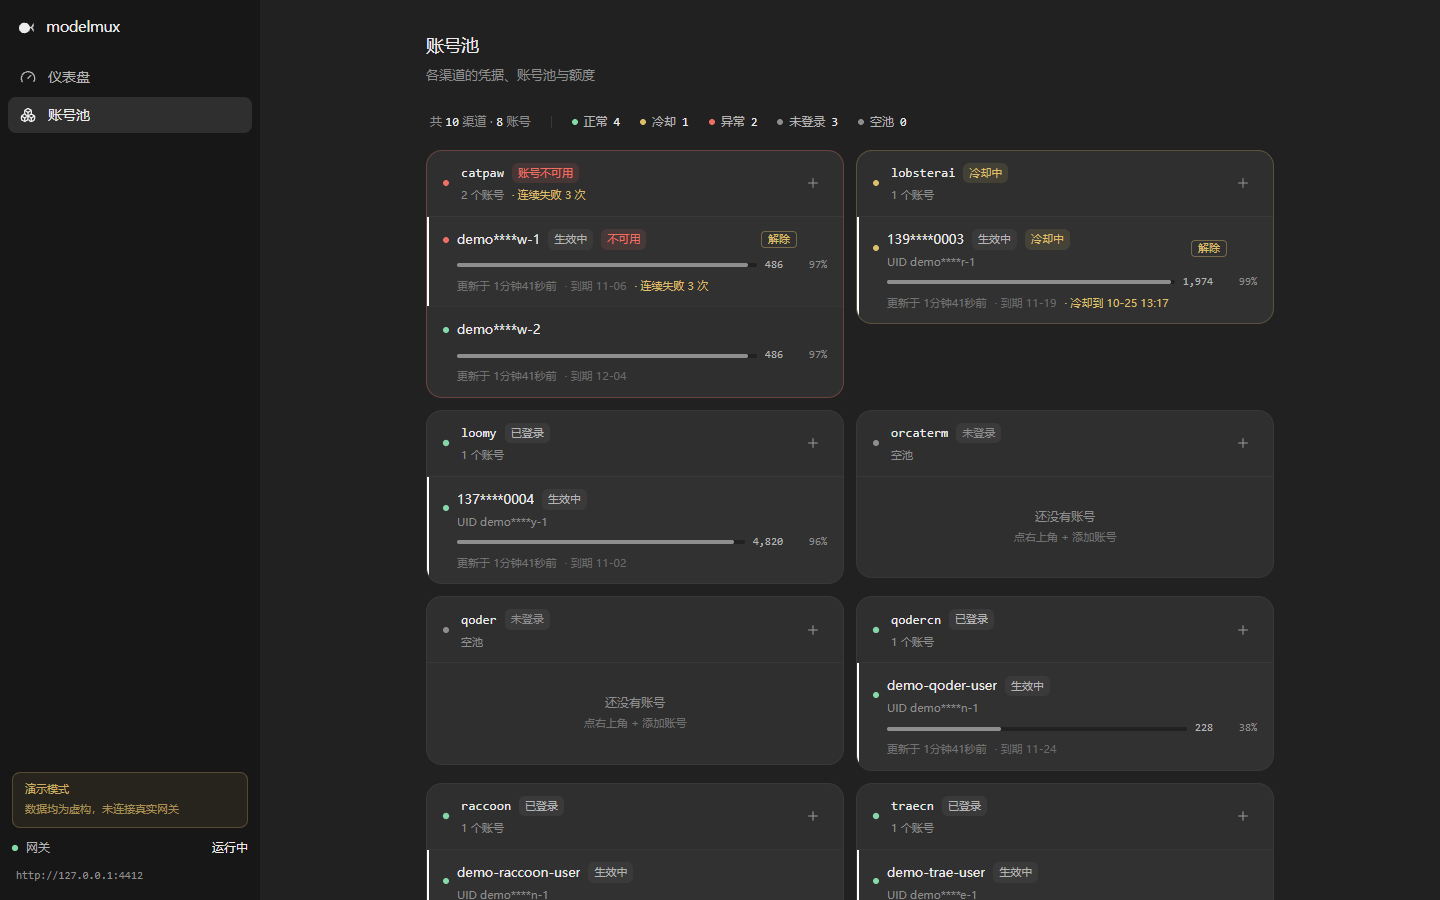
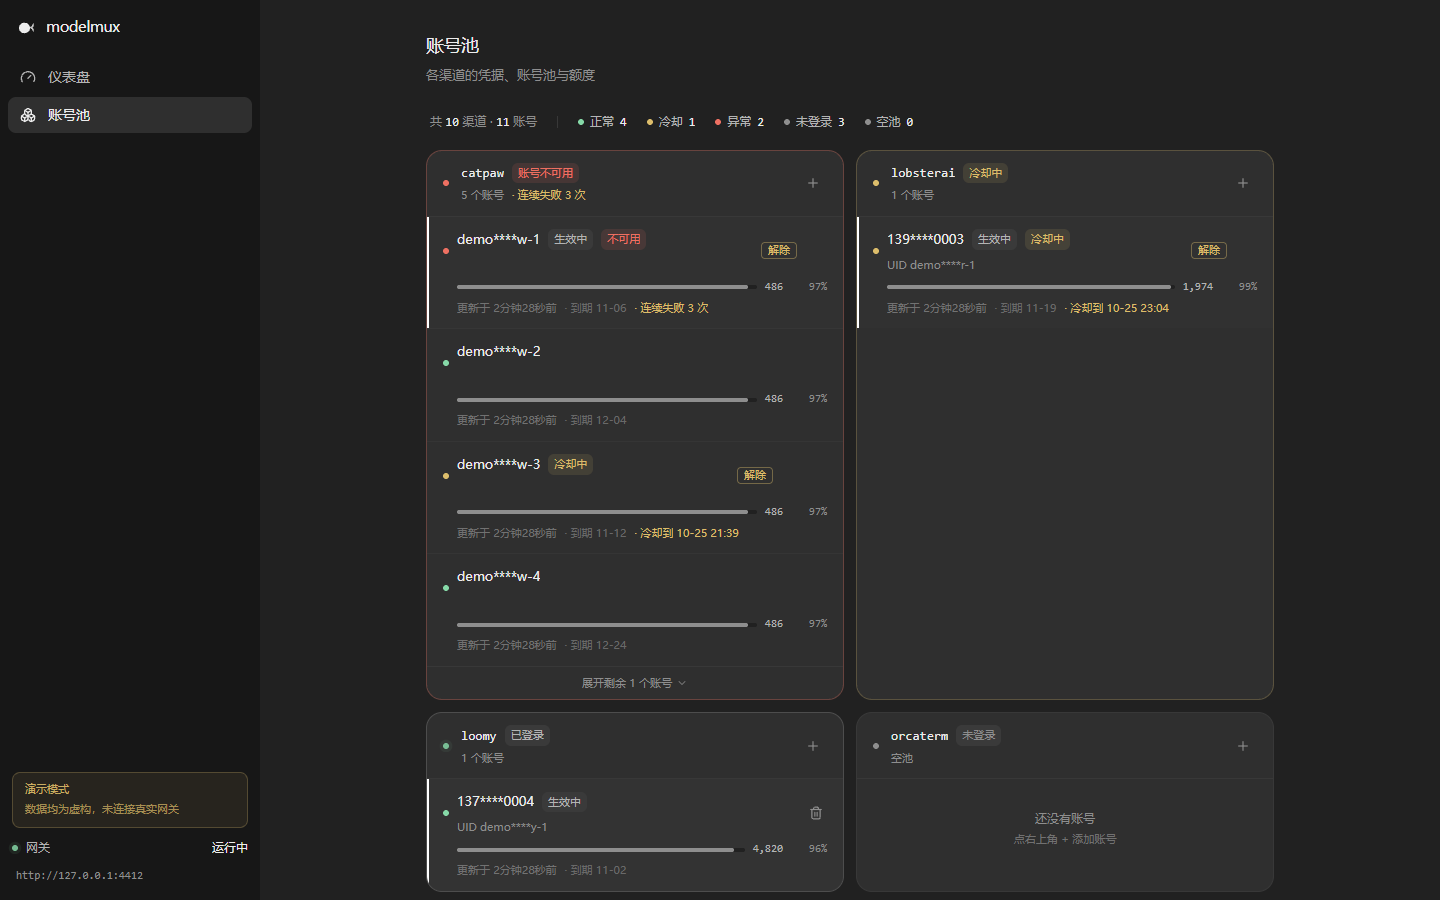
feat(ui): 账号池卡同行等高与恒定行高，多账号折叠上限 4
- 账号行恒定四行架构：名称行 / UID 行恒渲染（无 UID 空占位）/ 额度行 / 时间行 min-h，
  行高不再随「有没有 UID」「状态段多少」漂移
- 网格去 items-start（默认 stretch）：同行两卡严格等高，短卡底部留白
- 折叠上限 4：超出折进卡底「展开剩余 N 个账号 / 收起」（复用模型分组表折叠模式，
  aria-expanded；生效账号恒排首位不会被折掉）
- demo 数据 catpaw 扩到 5 账号（含 cooldown）演示折叠
- docs/WEB-CONSOLE.md 同步布局统一说明；README 账号池截图用 demo 构建重截

diff --git a/packages/ui/src/components/AccountCard.tsx b/packages/ui/src/components/AccountCard.tsx
@@ -10,7 +10,7 @@
  *   新鲜度/到期/失败次数收在最次行。
  */
 
-import { Plus, Trash2, UserCheck } from "lucide-react";
+import { ChevronDown, ChevronUp, Plus, Trash2, UserCheck } from "lucide-react";
 import { useEffect, useState } from "react";
 import type { PoolAccount } from "../lib/types";
 import type { ReactElement } from "react";
@@ -289,6 +289,14 @@ const STATUS_META: Record<ChannelStatus, { text: string; pill: string; dot: stri
 };
 
 /**
+ * 卡内默认露出的账号数，其余折进「展开剩余 N 个账号」。
+ *
+ * 卡片高度因此有上界（卡头 + 4 行 + 折叠条），网格不会被账号多的渠道撑爆；
+ * 生效账号恒排首位（见下方 sort），永远不会被折掉。
+ */
+const PREVIEW_ACCOUNTS = 4;
+
+/**
  * 单渠道账号池卡片。
  *
  * 信息层级按「用户一眼要看什么」排：卡头是 cid + 渠道级状态；
@@ -340,6 +348,10 @@ export function AccountCard({
     .map(rowOf)
     .sort((a, b) => Number(b.key === pool.index.active) - Number(a.key === pool.index.active));
   const activeAccount = accounts.find((a) => a.key === pool.index.active);
+  // 折叠态是卡内私有状态：页面不需要知道哪张卡展开了
+  const [expanded, setExpanded] = useState(false);
+  const visibleAccounts = expanded ? accounts : accounts.slice(0, PREVIEW_ACCOUNTS);
+  const hiddenAccounts = accounts.length - visibleAccounts.length;
 
   const status = classifyChannel(pool, present);
   const meta = STATUS_META[status];
@@ -394,7 +406,7 @@ export function AccountCard({
         </div>
       ) : (
         <ul className="border-t border-line">
-          {accounts.map((account) => {
+          {visibleAccounts.map((account) => {
             const active = account.key === pool.index.active;
             const bill = billingByKey.get(account.key);
             const health = healthText(account.health);
@@ -433,14 +445,12 @@ export function AccountCard({
                         <span className={`pill shrink-0 ${healthBadgeClass(account.health)}`}>{health}</span>
                       )}
                     </div>
-                    {/* UID 退到次行：不再和名称挤在同一行互相截断。
-                        名字行固定 22px 行高 + 这里留 6px 上间距：中文名（如「塞西莉亚4412」）
-                        字形下缘低，仅靠 leading 会看成与下一行叠字。 */}
-                    {showUid && (
-                      <div className="mt-1.5 truncate text-[11px] leading-none text-ink-faint">
-                        UID {maskMiddle(account.uid)}
-                      </div>
-                    )}
+                    {/* UID 退到次行：不与名称同行互截；**恒渲染**（无 UID 时空占位）——
+                        账号行高度不随「有没有标识次行」漂移（布局统一，2026-10-25 主人要求）。
+                        固定 16px 行盒 + 6px 上间距：中文名字形下缘低，紧贴会看成与下一行叠字。 */}
+                    <div className="mt-1.5 h-4 truncate text-[11px] leading-4 text-ink-faint">
+                      {showUid ? `UID ${maskMiddle(account.uid)}` : ""}
+                    </div>
                   </div>
                   {/* 解除：异常/冷却账号的**常显**动作 —— 不藏在 hover 里（触屏与键盘拿不到），
                       也不做二次确认（非破坏性：清了标记账号只是重新参与路由）。 */}
@@ -481,7 +491,7 @@ export function AccountCard({
                   </span>
                 </div>
 
-                {/* 第二行：额度条独占整行。
+                {/* 第三行：额度条独占整行。
                     **固定高度**：额度条有两种渲染分支 —— 正常分支返回块级 flex 行，
                     「无额度概念」渠道（capabilities.billing=false，如 orcaterm）返回
                     裸行内 span，行盒会更高（实测 24px vs 17px），导致账号块高度不一致、
@@ -529,9 +539,10 @@ export function AccountCard({
                   </div>
                 )}
 
-                {/* 第三行：时间与状态说明 —— 允许换行，绝不裁切。
+                {/* 第四行：时间与状态说明 —— 允许换行，绝不裁切；min-h 兜住空行
+                    （订阅制渠道此行全空时也保持行高）。偶发换两行由同行等高卡吸收。
                     账单还没到 / 请求失败时**不写「未查到」**：那是等待态，不是结果。 */}
-                <div className="mt-1 flex flex-wrap items-center gap-x-2 gap-y-1 pl-3.5 text-[11px] text-ink-faint">
+                <div className="mt-1 flex min-h-4 flex-wrap items-center gap-x-2 gap-y-1 pl-3.5 text-[11px] text-ink-faint">
                   {(() => {
                     // 没有额度概念的渠道（`capabilities.billing=false`，如 orcaterm 订阅制）
                     // 不显示账单新鲜度：它永远不会刷新，只会一直累加「更新于 N 天前」，
@@ -565,6 +576,25 @@ export function AccountCard({
             );
           })}
         </ul>
+      )}
+      {/* 折叠条：账号数超过预览上限时出现（点击展开，不用 hover —— 触屏/键盘也要能到达） */}
+      {accounts.length > PREVIEW_ACCOUNTS && (
+        <button
+          type="button"
+          className="flex w-full items-center justify-center gap-1 border-t border-line px-4 py-2 text-[11px] text-ink-faint transition-colors hover:bg-overlay/40 hover:text-ink"
+          onClick={() => setExpanded((v) => !v)}
+          aria-expanded={expanded}
+        >
+          {hiddenAccounts > 0 ? (
+            <>
+              展开剩余 {hiddenAccounts} 个账号 <ChevronDown className="h-3 w-3" />
+            </>
+          ) : (
+            <>
+              收起 <ChevronUp className="h-3 w-3" />
+            </>
+          )}
+        </button>
       )}
     </div>
   );

diff --git a/packages/ui/src/lib/demo.ts b/packages/ui/src/lib/demo.ts
@@ -76,6 +76,10 @@ const DEMO_ACCOUNTS: Record<string, DemoAccount[]> = {
     // 连败熔断：路由会跳过它，只能靠切号 / 重登 / 点「解除」
     { key: "demo000000000000a1", uid: "demo-uid-catpaw-1", label: "demo-uid-catpaw-1", health: "error", failStreak: 3, expiresInDays: 12 },
     { key: "demo000000000000a2", uid: "demo-uid-catpaw-2", label: "demo-uid-catpaw-2", health: "ok", expiresInDays: 40 },
+    // 凑够 5 个：演示「默认最多露 4 个 + 展开剩余」的折叠（含冷却/解除的混合状态）
+    { key: "demo000000000000a3", uid: "demo-uid-catpaw-3", label: "demo-uid-catpaw-3", health: "cooldown", cooldownInMinutes: 95, cooldownReason: "上游 429 用量限额，等额度窗口刷新", expiresInDays: 18 },
+    { key: "demo000000000000a4", uid: "demo-uid-catpaw-4", label: "demo-uid-catpaw-4", health: "ok", expiresInDays: 60 },
+    { key: "demo000000000000a5", uid: "demo-uid-catpaw-5", label: "demo-uid-catpaw-5", health: "ok" },
   ],
   // 额度冷却：会自己好，但用户也可以点「解除」提前放行
   lobsterai: [{ key: "demo000000000000c1", uid: "demo-uid-lobster-1", label: "139****0003", name: "139****0003", health: "cooldown", cooldownInMinutes: 180, cooldownReason: "上游 429 用量限额，等额度窗口刷新", expiresInDays: 25 }],

diff --git a/packages/ui/src/pages/Accounts.tsx b/packages/ui/src/pages/Accounts.tsx
@@ -295,13 +295,14 @@ export function Accounts(): ReactElement {
           </div>
 
           {/*
-            渠道卡用**对齐网格**（items-start）：卡顶成行对齐，短卡不在单元格内被拉伸，
-            不再出现 masonry 那种列底大片参差留白。
+            渠道卡网格：**同行等高**（默认 stretch）—— 卡顶卡底都成行对齐，短卡底部留白；
+            配合卡内「恒定四行架构 + 默认最多 4 账号」，任意卡的高度都可预期，
+            多账号/多状态不再把页面撑得参差（2026-10-25 主人反馈）。
 
             最多两列：三列时单卡仅 ~380px，中文账号名与额度条会互相挤压
             （实测「塞西莉亚4412」被截断）。
           */}
-          <div className="grid items-start gap-3 lg:grid-cols-2">
+          <div className="grid gap-3 lg:grid-cols-2">
             {list.map(({ pool, present, billing: bill }) => (
               <AccountCard
                 key={pool.cid}

diff --git a/docs/WEB-CONSOLE.md b/docs/WEB-CONSOLE.md
@@ -47,7 +47,7 @@ UI 的配色、层级与圆角**只在 `index.css` 的 `@theme` 里定义一次*
 | 页面 | 内容 |
 | --- | --- |
 | 仪表盘 `/web/` | **composer 形态的接入盒**（base_url / chat_url / endpoints，逐行可复制）、一行内联统计（网关 / 模型 / 渠道 / 端点）、**模型区**（见下）。没有 hero 大标题 —— 常驻工作区不做空状态问候 |
-| 账号池 `/web/accounts` | 添加账号（**登录引导弹窗**）、总览条（正常/冷却/异常/未登录计数）、渠道卡片**两列网格**（小写 cid + 账号列表：可读昵称/用户名 + 各账号剩余额度进度条 + 切换/**解除**/删除） |
+| 账号池 `/web/accounts` | 添加账号（**登录引导弹窗**）、总览条（正常/冷却/异常/未登录计数）、渠道卡片**两列网格**（小写 cid + 账号列表：可读昵称/用户名 + 各账号剩余额度进度条 + 切换/**解除**/删除；**同行等高、每卡默认最多 4 个账号**，超出折叠为「展开剩余 N 个」） |
 
 ### 为什么仪表盘首屏是「接入盒」
 
@@ -59,6 +59,19 @@ UI 的配色、层级与圆角**只在 `index.css` 的 `@theme` 里定义一次*
 三列时单卡仅约 380px，中文账号名与额度条会互相挤压（实测「塞西莉亚4412」被截断）。
 两列下每卡约 570px，名称行固定 22px 行高、UID 退到次行并留 6px 上间距 ——
 中文名字形下缘低，仅靠 `leading` 会看成与 UID 叠字。
+
+### 账号卡的布局统一（同行等高 + 折叠上限）
+
+多账号、多状态曾把页面撑得参差（2026-10-25 主人反馈）。三件套让任意卡的高度可预期：
+
+1. **同行等高**：网格用默认 `stretch`，同一行的两张卡严格等高，短卡底部留白。
+   与模型区「拒绝等高卡」不矛盾：模型数差距**无上界**（30 vs 9 会拉出巨幅空盒子），
+   而账号卡有下面第 3 条的上限封顶，最坏留白约 3 行账号，可控。
+2. **账号行恒定四行架构**：名称行（22px）/ UID 行**恒渲染**（16px，无 UID 时空占位）/
+   额度行（17px）/ 时间行（min-h 16px，允许罕见换行、由等高卡吸收）—— 行高不随
+   「有没有 UID」「状态段多少」漂移。
+3. **折叠上限 4**：每卡默认最多 4 个账号，其余折进卡底「展开剩余 N 个账号 / 收起」
+   （复用模型分组表的折叠模式，`aria-expanded`）；生效账号恒排首位，不会被折掉。
 
 ### 模型区（`components/ModelExplorer.tsx`）
 
